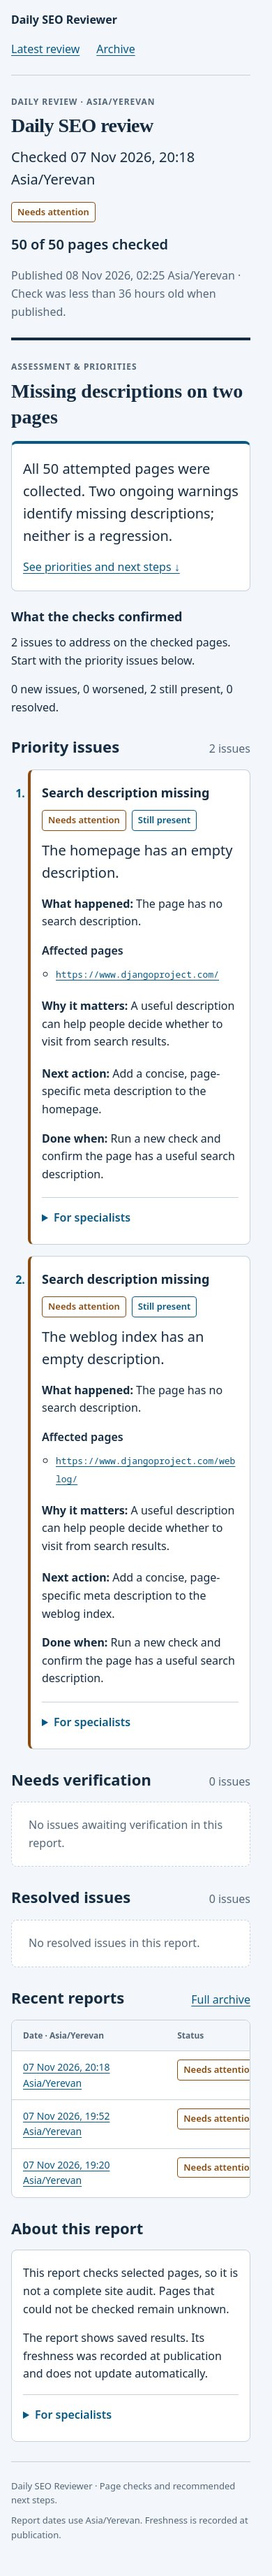
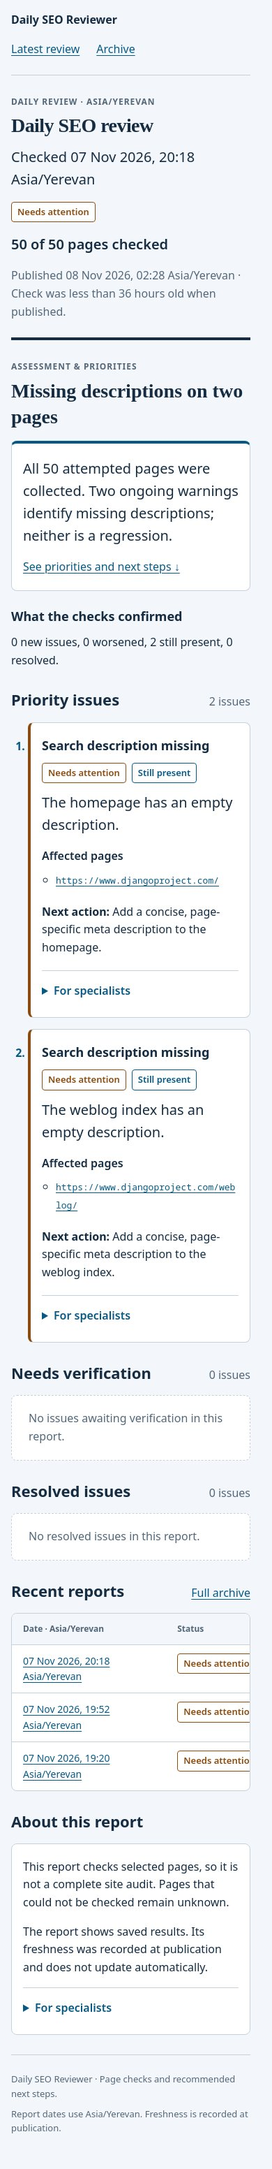
Prefer saved analysis over repetitive report boilerplate

diff --git a/seo_reviewer/rendering/report.html b/seo_reviewer/rendering/report.html
@@ -26,7 +26,6 @@
   {% endif %}
   <div class="check-results">
     <h3>What the checks confirmed</h3>
-    {% if report.narrative_source == 'ai' %}<p>{{ presentation.summary }}</p>{% endif %}
     <p>{{ presentation.changes }}</p>
     {% if report.detection.get('widespread_change') %}<p class="notice status--warning">Changes affect many checked pages. Ask your web team to review recent site-wide changes before fixing pages one by one.</p>{% endif %}
   </div>
@@ -48,8 +47,12 @@
       </div>
     </div>
     {% if item.finding.state == 'unverified' %}<p class="notice status--warning">The current condition is unknown. The latest check could not confirm whether this issue remains or has been resolved.</p>{% endif %}
-    {% if item.explanation %}<p class="issue-assessment">{{ item.explanation }}</p>{% endif %}
-    <p><strong>What happened:</strong> {{ item.happened }}</p>
+    {% if item.explanation %}
+    <p class="issue-assessment">{{ item.explanation }}</p>
+    {% else %}
+    <p>{{ item.happened }}</p>
+    <p>{{ item.matters }}</p>
+    {% endif %}
     <p class="field-label">Affected pages</p>
     <ul class="url-list">
       {% for url in item.urls %}<li>{% if url.href %}<a class="data" href="{{ url.href }}">{{ url.label }}</a>{% else %}<span class="data">{{ url.label }}</span>{% endif %}</li>{% endfor %}
@@ -60,12 +63,12 @@
       <div><dt>{{ item.observation_label }}</dt><dd>{{ item.observed }}</dd></div>
     </dl>
     {% endif %}
-    <p><strong>Why it matters:</strong> {{ item.matters }}</p>
     <div class="action-block">
       <p><strong>Next action:</strong> {{ item.action }}</p>
-      {% if item.finding.state != 'resolved' %}<p><strong>Done when:</strong> {{ item.verification }}</p>{% endif %}
+      {% if not item.explanation and item.finding.state != 'resolved' %}<p><strong>Done when:</strong> {{ item.verification }}</p>{% endif %}
     </div>
     <details><summary>For specialists</summary>
+      {% if item.explanation %}<p><strong>Verify the change:</strong> {{ item.verification }}</p>{% endif %}
       <dl class="observation-grid">
         <div><dt>Previous observation</dt><dd class="data">{{ item.raw_before }}</dd></div>
         <div><dt>{{ 'Last recorded observation' if item.finding.state in ['resolved', 'unverified'] else 'Current observation' }}</dt><dd class="data">{{ item.raw_observed }}</dd></div>

diff --git a/tests/test_render.py b/tests/test_render.py
@@ -188,7 +188,7 @@ def test_marketer_report_hides_internal_details_but_preserves_evidence(tmp_path)
     assert 'Some checks or page discovery could not be completed.' in visible
     assert visible.count('AI summary unavailable') == 1
     assert 'Search description missing' in visible
-    for label in ('What happened:', 'Affected pages', 'Why it matters:', 'Next action:'):
+    for label in ('Affected pages', 'Next action:'):
         assert label in visible
     assert not tree.xpath('//details[@open]')
     technical_links = tree.xpath('//a[contains(@href, "/data/") or contains(@href, "github.com")]')
@@ -288,7 +288,13 @@ def test_assessment_and_action_plan_use_saved_analysis_without_note_labels(tmp_p
     assert 'AI note' not in tree.text_content()
     plan = tree.xpath('//ol[@class="prioritized-list"]')[0]
     assert 'Write a useful homepage description.' in plan.text_content()
-    assert 'Suggested owner' not in tree.text_content() and 'Done when:' in plan.text_content()
+    assert 'Suggested owner' not in tree.text_content()
+    assert 'Verify the change:' in plan.text_content()
+    visible_issue = main_report_text(plan)
+    assert 'What happened:' not in visible_issue and 'Why it matters:' not in visible_issue
+    assert 'The page has no search description.' not in visible_issue
+    assert 'A useful description can help people decide' not in visible_issue
+    assert 'Done when:' not in visible_issue
     assert tree.text_content().count('Write a useful homepage description.') == 1
     assert 'Your action plan' not in tree.text_content()
     assert tree.xpath('//article/p[@class="issue-assessment"]')[0].text == 'Start with the homepage description.'

diff --git a/DESIGN.md b/DESIGN.md
@@ -56,4 +56,4 @@ Shared `base.html` owns landmarks/navigation and stylesheet; `report.html` is re
 
 Show authoritative facts before advisory AI prose. Keep code-derived coverage and statuses outside AI sentences. Each issue explains what happened, affected pages, why it matters, and the next action. Use “first report” and “new issue” only when supported by comparison evidence. Keep run/finding identifiers, rule codes, confidence values, and digests out of the report text. Place JSON, repository/workflow links, raw observations, and diagnostic details in closed “For specialists” disclosures; do not publish crawled HTML as executable pages. Keep latest and archive layout identical. Do not add form controls, a client framework, or deceptive interactive rows.
 
-The report leads with the saved assessment and its headline, followed by one ordered priority list combining reasoning, affected pages, next actions, and completion checks. Individual explanations have no “AI note” labels. Completion checks are standard workflow guidance; recommendations and ordering reuse saved analysis where available. No suggested owners are displayed. Coverage and confirmed changes remain code-derived and visible. No saved reviews are rewritten or extra model calls made to render the report.
+The report leads with the saved assessment and its headline, followed by one ordered priority list combining reasoning, affected pages, next actions, and completion checks. Individual explanations have no “AI note” labels. For issues with saved analysis, show that explanation and recommendation without repeating stock condition or impact paragraphs; keep standard verification guidance in the specialist disclosure. Issues without an explanation retain plain-language fallback context. Completion checks are standard workflow guidance; recommendations and ordering reuse saved analysis where available. No suggested owners are displayed. Coverage and confirmed changes remain code-derived and visible. No saved reviews are rewritten or extra model calls made to render the report.

diff --git a/UX-CONTRACT.md b/UX-CONTRACT.md
@@ -12,4 +12,4 @@ Source: README.md collection/detection/review contracts and the user's HTML repo
 - Daily Issue summary uses code-derived facts and actions. One run-ID marker prevents duplicates across delivery retries; a failed publication produces an explicit delivery warning instead of linking an older review as current.
 - Permission/delivery source: repository workflow and existing `GitHubDelivery`; generated review data remains public under the established public repository contract. No raw response bodies are copied into the Pages artifact.
 
-The report leads with the saved assessment and its headline, followed by one ordered priority list combining reasoning, affected pages, next actions, and completion checks. Individual explanations have no “AI note” labels. Completion checks are standard workflow guidance; recommendations and ordering reuse saved analysis where available. No suggested owners are displayed. Coverage and confirmed changes remain code-derived and visible. No saved reviews are rewritten or extra model calls made to render the report.
+The report leads with the saved assessment and its headline, followed by one ordered priority list combining reasoning, affected pages, next actions, and completion checks. Individual explanations have no “AI note” labels. For issues with saved analysis, show that explanation and recommendation without repeating stock condition or impact paragraphs; keep standard verification guidance in the specialist disclosure. Issues without an explanation retain plain-language fallback context. Completion checks are standard workflow guidance; recommendations and ordering reuse saved analysis where available. No suggested owners are displayed. Coverage and confirmed changes remain code-derived and visible. No saved reviews are rewritten or extra model calls made to render the report.

diff --git a/README.md b/README.md
@@ -221,4 +221,4 @@ Next: run the complete hosted workflow to verify report deployment and daily Iss
 
 API implementation references: [OpenAI Structured Outputs](https://developers.openai.com/api/docs/guides/structured-outputs), [OpenAI Python parsing helpers](https://github.com/openai/openai-python/blob/main/helpers.md), [Protego](https://github.com/scrapy/protego), and [GitHub Pages workflows](https://docs.github.com/en/pages/getting-started-with-github-pages/using-custom-workflows-with-github-pages).
 
-The report leads with the saved assessment and its headline, followed by one ordered priority list combining reasoning, affected pages, next actions, and completion checks. Individual explanations have no “AI note” labels. Completion checks are standard workflow guidance; recommendations and ordering reuse saved analysis where available. No suggested owners are displayed. Coverage and confirmed changes remain code-derived and visible. No saved reviews are rewritten or extra model calls made to render the report.
+The report leads with the saved assessment and its headline, followed by one ordered priority list combining reasoning, affected pages, next actions, and completion checks. Individual explanations have no “AI note” labels. For issues with saved analysis, show that explanation and recommendation without repeating stock condition or impact paragraphs; keep standard verification guidance in the specialist disclosure. Issues without an explanation retain plain-language fallback context. Completion checks are standard workflow guidance; recommendations and ordering reuse saved analysis where available. No suggested owners are displayed. Coverage and confirmed changes remain code-derived and visible. No saved reviews are rewritten or extra model calls made to render the report.
